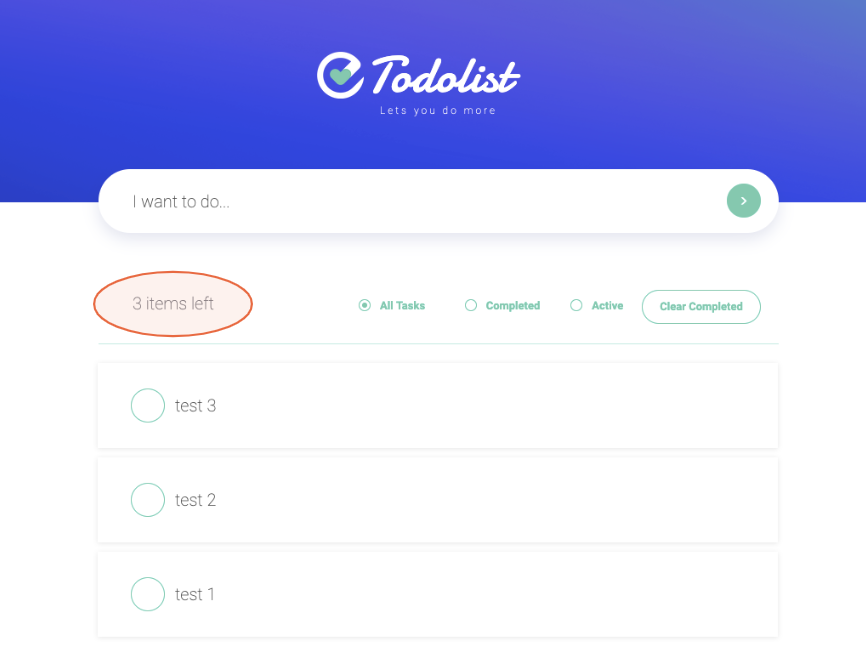
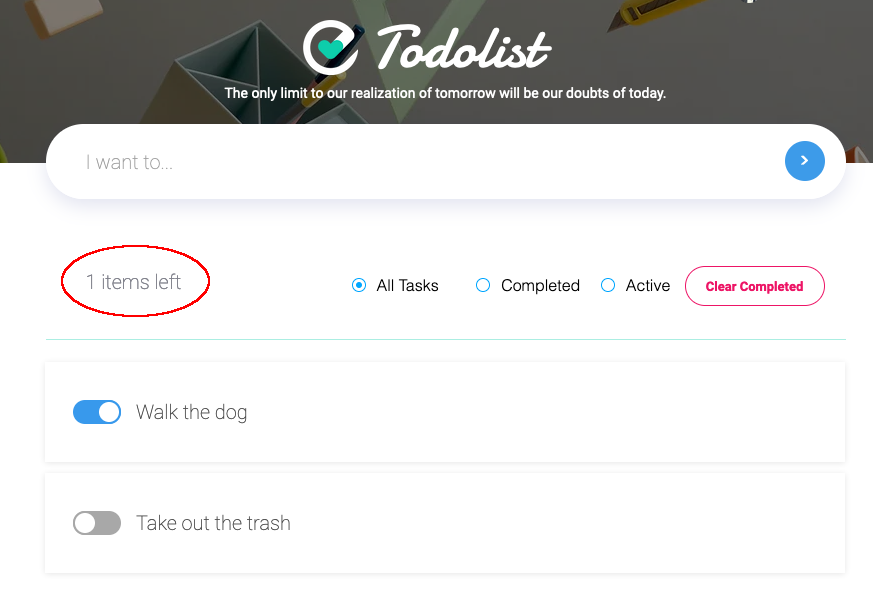
update uncompleted task counter

diff --git a/docs/UNCOMPLETED_TASK_COUNTER.md b/docs/UNCOMPLETED_TASK_COUNTER.md
@@ -2,62 +2,89 @@
 
 In this module, we will present the remaining uncompleted tasks counter in the text element above our tasks repeater.
 
-<p padding="40px"><img src="assets/uncompleted-task-counter.png" alt="Uncompleted Task Counter" width="40%" height="40%"></p>
+<p><img src="assets/uncompleted-task-counter.png" alt="Uncompleted Task Counter"></p>
 
 **:bulb: New concepts**
-- [WixDataQuery](https://www.wix.com/velo/reference/wix-data.WixDataQuery.html) - Contains functionality for refining a data query.
+- Use [WixDataQuery](https://www.wix.com/velo/reference/wix-data.WixDataQuery.html) to retrieve data from your data collection.
 
 **:white_check_mark: Step-by-step directions**
 
-1. Add an async function that will update the task counter.
+Previously we worked forwards, defining our event handlers, and then our functions. This time it might make a bit more sense to work backwards as we'll be using this function in a few places.
 
-```
-async function updateActiveTaskCount() {
-	// function code here
+1. So first let's define our `getIncompleteTodoCount()` function. You might recall seeing this function mentioned in an earlier step. Now we'll get to define it so that it can update our "x items left" count. Nothing is more satisfying than seeing your TODO list count tick down so let's make that easy for our users to see!
+
+```js
+// Get the count of TODOs that are not marked completed
+function getIncompleteTodoCount() {
+    wixData
+        .query(TODO_COLLECTION)
+        .eq('completed', false)
+        .count({ consistentRead: true }) // Count from primary database
+        .then((result) => {
+            $w('#activeTasksCount').text = `${result} items left`;
+            $w('#activeTasksCount').show("float");
+        })
+        .catch(() => {
+            $w('#activeTasksCount').hide();
+        })
 }
 ```
 
-2. Add a query that will use the condition [eq](https://www.wix.com/velo/reference/wix-data.WixDataQuery.html#eq) to retrieve the amount of the uncompletted tasks from the collection.
+Here we use `wixData.query()` and it returns a [WixDataQuery](https://www.wix.com/velo/reference/wix-data.WixDataQuery.html) object that we can then call various functions on to construct our query. 
 
+In this case we want all of our incomplete items, so we query for `.eq('completed', false)`. We don't want the items themselves, we just want to count them so we call `count()`.
+
+`wixData` then returns a Promise and so we take the result of the Promise and update our task count. We also use `.show("float")` to make a neat little visual animation that calls the user's attention to the update.
+
+:warning: We call `count()` with `{ consistentRead: true }` to avoid data inconsistencies. You can read more about [consistentRead and eventual consistency here](https://www.wix.com/velo/reference/wix-data/introduction#wix-data_introduction_wix-data-and-eventual-consistency) to understand why we do this.
+
+2. Great now that we've got our function written we can call it where we need it. We'll need it in a few places: 
+	1. In our `$w.onReady()` so it updates when the page loads.
+	1. In our `authentication.onLogin()` event inside `$w.onReady()` as well because when users login it doesn't trigger a page refresh.
+	1. In our `handleSwitchChange()` function so we can update the count whenever a user changes a task's completed status.
+
+3. The first two places we're putting this are very similar and no matter what changes we make to the site we'll want our `$w.onReady()` and `authentication.onLogin()` to do the same initialization. So we'll follow a common pattern and create an `init()` function.
+
+```js
+// Initialize the page with data that we need
+// but don't get through the dataset
+async function init() {
+    getIncompleteTodoCount();
+
+	// We'll do this other thing later!
+    // if (wixWindow.rendering.env === 'browser') {
+    //     $w('#tagline').text = await getQuote();
+    //     $w('#tagline').show("float");
+    // }
+}
 ```
-async function updateActiveTaskCount() {
-	const activeTaskCount = await wixData.query('TodoTasks')
-		.eq('completed', false)
-		.or(wixData.query('TodoTasks')
-			.eq('completed', null))
-		.count()
-})
+:information_source: Right now our `init()` function is small, almost unnecessary, but it'll be more useful for avoiding duplicated code later.
+
+4. Now we'll modify the code at the end of our `$w.onReady()` so our first 2 places (login and page refresh) are covered. Simple!
+
+```js
+import { authentication } from 'wix-members'; // import me!
+
+$w.onReady(function () {
+	// Rest of your code here...
+
+    // Setup the page/init on both page render and login
+    // Login doesn't trigger a new page render
+    authentication.onLogin(init)
+    init();
+});
 ```
 
-3. Udate the task counter [text element](https://www.wix.com/velo/reference/$w.Text.html#text) according to the query result.
 
-```
-async function updateActiveTaskCount() {
-	// get activeTaskCount here
-
-	let activeTaskText
-	switch (activeTaskCount) {
-	case 0:
-		activeTaskText = 'Completed all tasks'
-		break;
-	case 1:
-		activeTaskText = '1 item left'
-		break;
-	default:
-		activeTaskText = `${activeTaskCount} items left`
-		break;
-	}
-
-	$w('#activeTasksCount').text = activeTaskText
+4. Lastly we also want to update `handleSwitchChange()` so our count is updated whenever a task's status is changed
+```js
+// Update the collection when a todo's completed status is changed
+async function handleSwitchChange(event) {
+	// Rest of your code here...
+    getIncompleteTodoCount(); // you can uncomment me now!
 }
 ```
 
-4. Call updateActiveTaskCount in:
-
-- The end of addNewTask function
-- The begining of \$w.onReady function
-- In the end of changing the task status in checkbox onChange event
-
-:exclamation: **Go to preview, play with the completed status of the tasks and make sure the counter is updated.**
+:exclamation: **Go to preview, play with the completed status of the tasks and make sure the counter is updating. Spend a minute enjoying all you've accomplished so far!**
 
 :fast_forward: Next Module => [Tasks Filter](TASK_FILTER.md)
